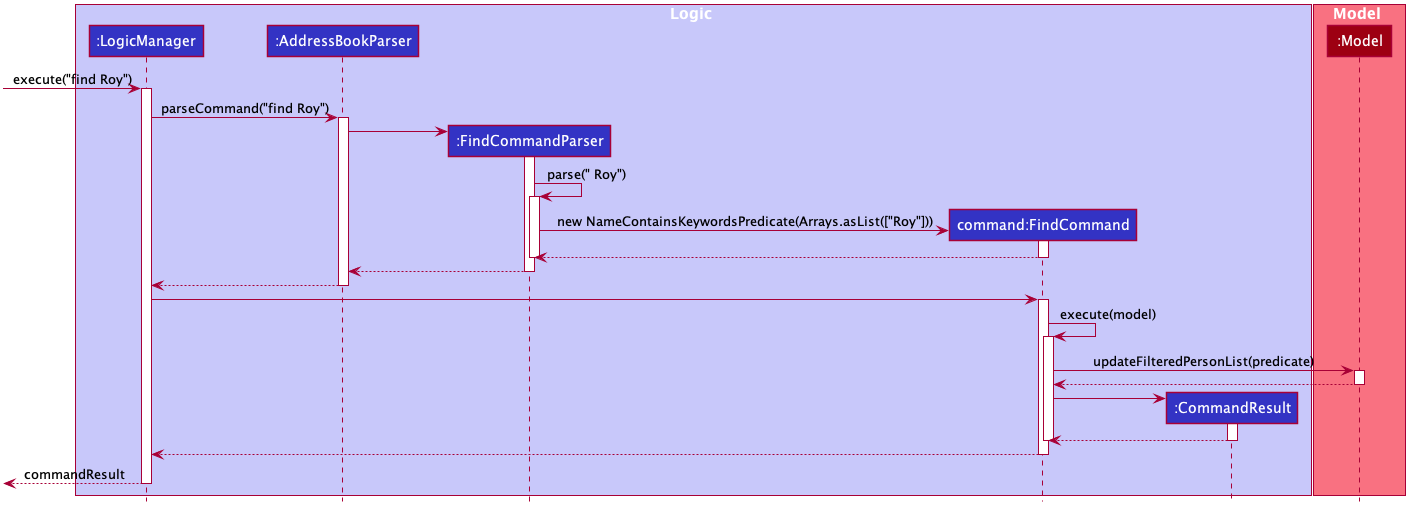
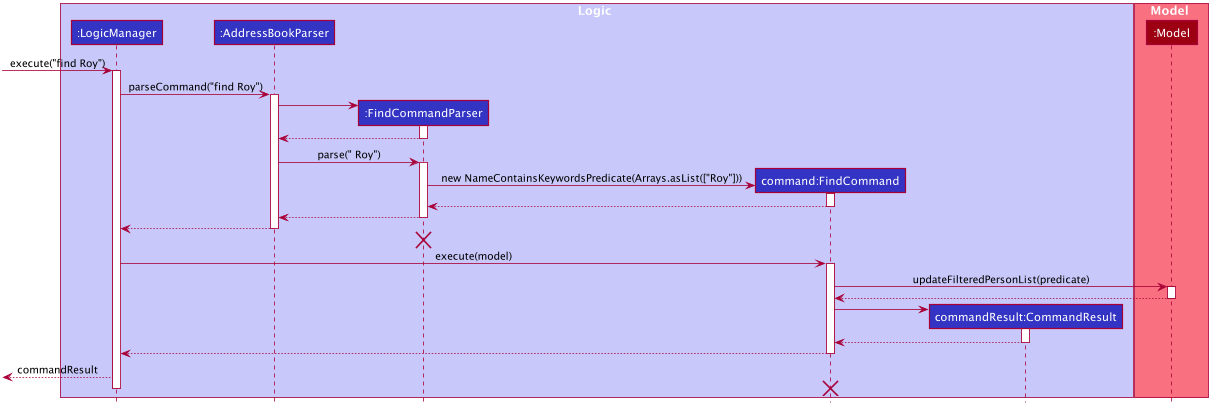
Update DG: Improve existing Find/List Commands

Changed region(s): [[0.0, 0.0, 1.0, 0.9927], [0.4688, 0.0, 0.5, 0.0292]]

diff --git a/docs/DeveloperGuide.md b/docs/DeveloperGuide.md
@@ -199,7 +199,7 @@ on TAsker's GUI.
 1. `LogicManager` processes the user input "list".
 2. AddressBookParser is called with it's `parseCommand(userInput)` method to parse input, which returns a new
    `ListCommand` object
-3. Our new `ListCommand` object calls its own `execute` method with the `model` field of `LogicManager` as input.
+3. Next, `Logicmanager` calls our new `ListCommand` object's`execute` method with the `model` field of `LogicManager` as input.
 4. Within the `ListCommand#execute` method, the `model` field calls its own `updateFilteredPersonList` method to update
    the list to show all persons.
 5. Lastly, a new `CommandResult` with the relevant success message is finally returned to `LogicManager`.
@@ -222,9 +222,9 @@ specific student is displayed on TAsker's GUI.
 3. The `FindCommandParser` object calls its own `parse` method with the `" Roy"` as input.
 4. Now, the `" Roy"` argument is broken down into its individual strings, with whitespace removed and into an array,
    which is processed and used as predicate for filtering out the desired student.
-5. Within the `ListCommand#execute` method, the `model` field calls its own `updateFilteredPersonList` method to update
-   the list to show all persons.
-6. Our new `ListCommand` object calls its own `execute` method with the `model` field of `LogicManager` as input.
+5. `Logicmanager` calls our `FindCommand` object's `execute` method with the `model` field of `LogicManager` as input.
+6. Within the `FindCommand#execute` method, the `model` field calls its own `updateFilteredPersonList` method to update
+   the list to retrieve the relevant person.
 7. Lastly, a new `CommandResult` with the relevant message is finally returned to `LogicManager`.
 
 All of these details and interactions are captured in the sequence diagram below.
